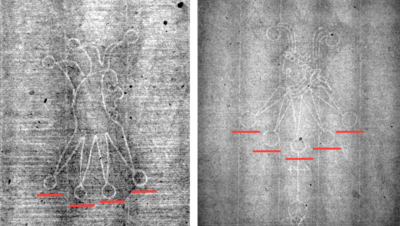
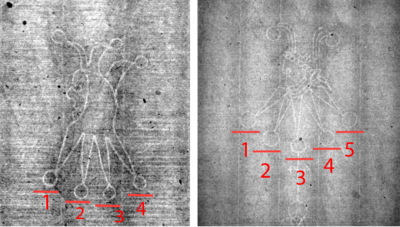
Text changes for Oberline presentation

diff --git a/_pages/foolscap_5_pointed_collar/Kaa.html b/_pages/foolscap_5_pointed_collar/Kaa.html
@@ -3,12 +3,55 @@ layout: watermark
 name: Foolscap 5 Pointed Collar, K.a.a.
 parent: chin_collar_points
 clarification: "Watermark K.a.a. can be distinguished by the following characteristics: five collar points, roundels in a pyramid form, striped peaks of the cap, circles across the brow, and cross below the central collar point."
+datable: 1650
 prints:
-  - title: The good Samaritan
-    details: 1633, (B.90 ii/ NHD 116 ii), Rijksprentenkabinet, Amsterdam (RPK OB.162). Uncut broadsheet
-  - title: The good Samaritan
-    details: 1633, (B.90 ii/ NHD 116 ii), Edmond de Rothschild Collection, Paris (EdRC 2390 L.R.). Uncut broadsheet
-  - title: The good Samaritan
-    details: 1633, (B.90 iii/ NHD 116 iii), Hermitage Museum, St Petersburg (HMP 235076). Uncut broadsheet
+  - title: "Self-portrait in a cap and scarf with the face dark: bust"
+    details: 1633 (B. 17 ii/ NHD 120 ii), Hermitage Museum, St. Petersburg (HMP 234906). Quarto sheet
+  - title: "The Good Samaritan"
+    details: 1633 (B. 90 iv/ NHD 116 iv), Musée Jenesch, Vevey, Switzerland (FWC.149-a). Uncut broadsheet
+  - title: "Medea: or the marriage of Jason and Creusa"
+    details: 1648 (B. 112 iv/ NHD 241 iv), National Gallery of Art, Washington (1943.3.7129). Folio sheet
+  - title: "Medea: or the marriage of Jason and Creusa"
+    details: 1648 (B. 112 iv/ NHD 241 iv), Teylers Museum, Haarlem (KG.3676). Folio sheet
+  - title: "The Shell"
+    details: 1650 (B. 159 ii/ NHD 247 ii), Bibliothèque Nationale, Paris (B.159ii). Quarto sheet
+  - title: "The Shell"
+    details: 1650 (B. 159 ii/ NHD 247 ii), Teylers Museum, Haarlem (KG.3727). Quarto sheet
+  - title: "The French Bed ('Het Ledikantje')"
+    details: 1646 (B. 186 iv/ NHD 230 iv-v), Teylers Museum, Haarlem (KG.3749)
+  - title: "Six’s Bridge"
+    details: 1645 (B. 208 iii/ NHD 222), Art Institute, Chicago (AIC 1978.77)
+  - title: "Six’s Bridge"
+    details: 1645 (B. 208 iii/ NHD 222), Hermitage Museum, St. Petersburg (HMP 235265)
+  - title: "Six’s Bridge"
+    details: 1645 (B. 208 iii/ NHD 222), British Museum, London (BM 1868-8-22-674)
+  - title: "View of Amsterdam from the Kadijk"
+    details: ca. 1641 (B. 210 only / NHD 203 only) Bibliothèque Nationale, Paris (BNP B.210:C). Quarto sheet
+  - title: "Landscape with three gabled cottages beside a road"
+    details: 1650 (B. 217 i/ NHD 248 i) Edmond de Rothschild Collection, Paris (EdRC 2430 L.R.). Folio sheet
+  - title: "Landscape with three gabled cottages beside a road"
+    details: 1650 (B. 217 iii/ NHD 248 iii) Metropolitan Museum of Art, New York (MMA 29.107.33). Folio sheet
+  - title: "Cottages and farm buildings with a man sketching"
+    details: ca. 1641 (B. 219 only/ NHD 201 only), Morgan Library & Museum, New York (JPM Irw B.219). Folio sheet
+  - title: "Cottages and farm buildings with a man sketching"
+    details: ca. 1641 (B. 219 only/ NHD 201 only), Teylers Museum, Haarlem (TMH KG.3783). Folio sheet
+  - title: "Cottages and farm buildings with a man sketching"
+    details: ca. 1641 (B. 219 only/ NHD 201 only), Galleria degli Uffizi, Florence (GUF 6147). Folio sheet
+  - title: "Landscape with a farm building and the 'house with the tower'"
+    details: ca. 1651 (B. 223 i/ NHD256 i), British Museum, London (BM 1848-9-11-111). Folio sheet
+  - title: "Landscape with a farm building and the 'house with the tower'"
+    details: ca. 1651 (B. 223 ii/ NHD 256 ii), Frits Lugt Collection, Institut Néerlandais, Paris (FLC 2107-ctr). Folio sheet
+  - title: "Landscape with a farm building and the 'house with the tower'"
+    details: ca. 1651 (B. 223 ii/ NHD 256 ii), British Museum, London (BM 1973-U.1028). Folio sheet
+  - title: "A brook with a grotto and a boat ('het spelonkje')"
+    details: 1645 (B. 231 iii/ NHD 220 ii), British Museum, London (BM 1973-U.974)
+  - title: "Cottage with a white paling"
+    details: 1648 (B. 232 iii/ NHD 246 iii), Hermitage Museum, St. Petersburg (HMP 235293). Folio sheet
+  - title: "The windmill"
+    details: 1641 (B. 233 only/ NHD 200 only), Private Collection, France (PCF B.233). Folio sheet
+  - title: "Bearded man, in a furred oriental cap and robe"
+    details: 1631 (B. 263 iv/ NHD 85 v), British Museum, London (BM 1843-5-13-264). Folio sheet
+  - title: "The fourth oriental head"
+    details: ca. 1635 (B. 289 ii/NHD 152 iii), Herzog Anton Ulrich Museum, Braunschweig (HAUM 5615). Quarto sheet
 hinterding: 63
 ---

diff --git a/_pages/index.html b/_pages/index.html
@@ -7,14 +7,16 @@ layout: default
       Watermark Identification in Rembrandt’s Etchings
     </h2>
     <p class="text-center" style = "font-family:'Crimson Text', serif;">
-      The Watermark Identification in Rembrandt’s Etchings (WIRE) project aims to simplify the process of identifying watermarks, which are often very difficult to tell apart. This student-designed program uses a decision tree, a branching series of questions, to guide researchers to the correct answer. The answer page provides information about the unique aspects of each watermark, which stands for a specific paper batch Rembrandt printed on. Eventually, all Rembrandt watermarks from Erik Hinterding’s 2006 catalogue will be included in this tool.
+      The Watermark Identification in Rembrandt’s Etchings (WIRE) project aims to simplify the process of identifying watermarks, which are often very difficult to tell apart. This program uses a decision tree model to guide researchers to a match with their sought watermark. The answer page provides information about the dating of that particular paper batch in Rembrandt’s oeuvre, and other Rembrandt prints appearing on the same paper. Eventually, all Rembrandt watermarks from Erik Hinterding’s 2006 catalogue will be included in this tool.
     <br>
     <br>
     <br>
-      For this demonstration version, a subset of watermark types is offered. Ultimately, researchers with watermarks of interest will be able to upload their own watermark images to the decision tree. For now, we have provided several options to choose from. Choose a comparative image and follow the series of questions and images to find your watermark’s match.
+      For this demonstration version of the tool, a subset of watermark types is offered. Ultimately, researchers with watermarks of interest will be able to upload their own watermark images for comparison with examples in the decision tree. For now, we have provided several options to choose from.
+    <br>
+      Choose a comparative image and follow the series of questions and images to find your watermark’s match.
     </p>
     <br>
-    <a class="btn btn-primary" href="start" role="button">Decision Tree</a>
+    <a class="btn btn-primary" href="start" role="button">Identify Your Watermark</a>
     <br>
     <br>
     <a  style="margin-top: 2%; margin-bottom: 2%;" href="https://neh.gov">

diff --git a/_pages/single_headed_eagle/Aaa.html b/_pages/single_headed_eagle/Aaa.html
@@ -3,8 +3,10 @@ layout: watermark
 name: Eagle, Single-Headed, A.a.a. (or twinmark A.a.b.)
 parent: beak_crown
 clarification: "Watermark A.a.a. can be distinguished by three features: its eagle's wings point downward, it has a smooth neck without ruffles, and it has four claws that extend from its foot."
+datable: 1637
 prints:
   - title: Studies of the heads of Saskia and others
     details: 1636, at the Metropolitan Museum of Art, New York
     notes: "The WIRE project believes that the twinmark to this watermark, Eagle, Single-Headed A.a.b., is found on an impression of <i>Studies of the heads of Saskia and others</i>, 1636, held in a private collection, which we have provided as a comparative image for this exercise.</p> <p>A <i>twinmark</i> is one of two nearly identical watermarks affixed to a pair of paper molds used in rotation to make a batch of paper. The watermark in the image we have supplied is notably different from A.a.a. since there is an angular bend in the beak-side wing feather that causes the feathers to appear distorted. Another impression of the same print, <i>Studies of the heads of Saskia and others</i>, held at the Metropolitan Museum of Art, contains  an A.a.a. watermark. This provides further evidence that watermark A.a.b. (lower right) is a twinmark of A.a.a (lower left)."
+hinterding: 415
 ---

diff --git a/_pages/basel_crosier/Aaa.html b/_pages/basel_crosier/Aaa.html
@@ -3,6 +3,7 @@ layout: watermark
 name: Basel Crosier, A.a.a.
 parent: basel_q2
 clarification: "Watermark A.a.a. can be distinguished by several features: the top of the basel crosier is on a crowned shield, the central band of the crown contains three groups of triple circles and the initials EHM can be found below the shield."
+datable: 1634-35
 prints:
   - title: "Self-portrait with raised sabre"
     details: 1634 (B.18 i/ NHD 134 i), Teylers Museum, Haarlem (TMH KG.3543)+. Folio sheet
@@ -38,5 +39,5 @@ prints:
     details: circa 1632, (B. 262 ii/ NHD 92 ii), Frits Lugt Collection, Institut Néerlandais, Paris (FLC 4124)+. Folio sheet
   - title: "Bust of an old man with flowing beard and white sleeve"
     details: circa 1631, (B. 291 only state/ NHD 65 i), National Gallery of Art, London (NGA 1943.3.7263). Quarto sheet
-hinterding: 60-61
+hinterding: 60-61, 414
 ---

diff --git a/_pages/basel_crosier/Cab.html b/_pages/basel_crosier/Cab.html
@@ -3,6 +3,7 @@ layout: watermark
 name: Basel Crosier, C.a.b.
 parent: basel_q8
 clarification: "Watermark C.a.b. can be distinguished by several features: there is a fleur-de-lis in the arch below the crown, the crown is double banded and the top band contains jewels, and the initials VA or AV can be found below the shield. This watermark is a twinmark with Basel Crosier, C.a.a."
+datable: 1632-33
 prints:
   - title: The good Samaritan
     details: 1633, (B.90 ii/ NHD 116 ii), British Museum, London (BM 1848-9-11-47). Uncut broadsheet
@@ -10,5 +11,5 @@ prints:
     details: 1633, (B.90 iii/ NHD 116 iii), Bibliothéque Nationale de France, Paris (BNP B.90iii). Uncut broadsheet
   - title: The good Samaritan
     details: 1633, (B.90 iii/ NHD 116 iii), British Museum, London (BM 1973-U.831). Uncut broadsheet
-hinterding: 63
+hinterding: 63, 414
 ---

diff --git a/_pages/basel_crosier/B'aa.html b/_pages/basel_crosier/B'aa.html
@@ -3,6 +3,7 @@ layout: watermark
 name: Basel Crosier, B’.a.a.
 parent: basel_q10
 clarification: "Watermark B’.a.a. can be distinguished by several features: the bottom of the shield is flat, below the shield are the initials PV, there is a single band in the crown, and a chain line runs through the center of the watermark."
+datable: 1641-42
 prints:
   - title: "Three oriental figures"
     details: 1641, (B. 118 i/ NHD 190 i), National Gallery of Art, Washington (NGA 1943.3.7262). Folio sheet
@@ -22,5 +23,5 @@ prints:
     details: 1642, (B.188 iii/ NHD 211 iii), Bibliothéque Nationale de France, Paris (BNP B.188iii). Folio sheet
   - title: "The flute player"
     details: 1642, (B.188 iii/ NHD 211 iii), Rijksprentenkabinet, Amsterdam (RPK 61:1097). Folio sheet
-hinterding: 63
+hinterding: 62, 414
 ---

diff --git a/_pages/start.html b/_pages/start.html
@@ -6,8 +6,7 @@ layout: default
 <div class="text">
   <h2>Identify your watermark</h2>
   <p>
-    Each watermark has many different variants and subvariants - there are some watermarks that are so similar that they are twins. The diagram above is an example of the various variants and subvariants for one watermark.
-Answer the following yes / no questions and establish exactly what watermark is on your print. Below are various watermarks…select one to start.
+    Select the watermark type that best approximates your watermark from the choices below. Then answer the questions to establish a match.
   </p>
   <div class="d-flex flex-row flex-wrap">
     {% for branch in site.data.branches %}

diff --git a/_layouts/index.html b/_layouts/index.html
@@ -8,9 +8,9 @@ layout: default
 {% assign branch_name = site.data.branches[branch_slug].name %}
 
 <div class="text">
-  <h3>{{ branch_name }} — Demo</h3>
-  <p>Before running through the {{ branch_name }} branch, choose a comparative watermark to classify.</p>
-  <p>You will then answer questions about your choice of watermark, as you run through the branch to find its subvariant classification.</p>
+  <h2>{{ branch_name }} — Demo</h2>
+  <p>Choose a comparative watermark image to classify using the {{ branch_name }} Decision Branch.</p>
+  <p>Answer the questions provided to determine a match.</p>
 
   <div class="d-flex flex-row flex-wrap">
     {% for demo in page.demos %}

diff --git a/_pages/single_headed_eagle/basel_Baa.html b/_pages/single_headed_eagle/basel_Baa.html
@@ -3,6 +3,7 @@ layout: watermark
 name: Eagle with Basel Crosier, Single-Headed, B.a.a.
 parent: wings_chain_line
 clarification: "Watermark B.a.a. can be distinguished by  three features: its eagle contains a Basel crosier, its foot on the beak side stays in, but does not cross, a chain line, and below it are the letters ID."
+datable: 1637
 prints:
   - title: Self-portrait (?) with plumed cap and lowered saber
     details: 1634, Rijksprentenkabinet, Amsterdam
@@ -16,5 +17,5 @@ prints:
     details: circa 1634, Frits Lugt Collection, Institut Néerlandais, Paris
   - title: Woman reading
     details: 1634, Philadelphia Museum of Art
-hinterding: 106
+hinterding: 106, 415
 ---

diff --git a/_pages/single_headed_eagle/basel_Aaa.html b/_pages/single_headed_eagle/basel_Aaa.html
@@ -2,7 +2,7 @@
 layout: watermark
 name: Eagle with Basel Crosier, Single-Headed, A.a.a.
 parent: wings_downward
-clarification: "Watermark A.a.a. is distinguishable by these three features: wings that point downward, a smooth neck without ruffles, and four claws extending from the foot (marked with red)."
+clarification: "Watermark A.a.a. is distinguishable by these three features: wings that point downward, a smooth neck without ruffles, and four claws extending from the foot (marked with blue)."
 prints:
   - title: The third oriental head
     details: 1635, Rijksprentenkabinet, Amsterdam

diff --git a/_pages/single_headed_eagle/B'b.html b/_pages/single_headed_eagle/B'b.html
@@ -3,6 +3,7 @@ layout: watermark
 name: Eagle, Single-Headed, B'.b.
 parent: wing_shorter
 clarification: "Watermark B'.b. is distinguishable by these three features: a fleur-de-lis at the center of the eagle, three long claws extending from the foot, and segmented wings, of which the first two segments are of equal size. (Marked with red.)"
+datable: 1637
 prints:
   - title: Man replying ‘Not at all’
     details: ca. 1634, Bibliothèque Nationale de France, Paris

diff --git a/assets/wire.css b/assets/wire.css
@@ -54,6 +54,10 @@ nav {
   text-align: center;
 }
 
+h2 {
+  font-size: 48pt;
+}
+
 .container-index {
   background-image: linear-gradient(rgba(0, 0, 0, 0.5),rgba(0, 0, 0, 0.5)),
   url("../assets/eMuseumJpgseMuseum2010.-2019NoCopyright2014.020.jpg");
@@ -91,7 +95,7 @@ nav {
   background-color: black;
   margin-top: 5%;
   margin-bottom: 5%;
-  text-decoration: none;
+  font-style: normal;
   padding: 30px;
   text-align: center;
   display: inline-block;
